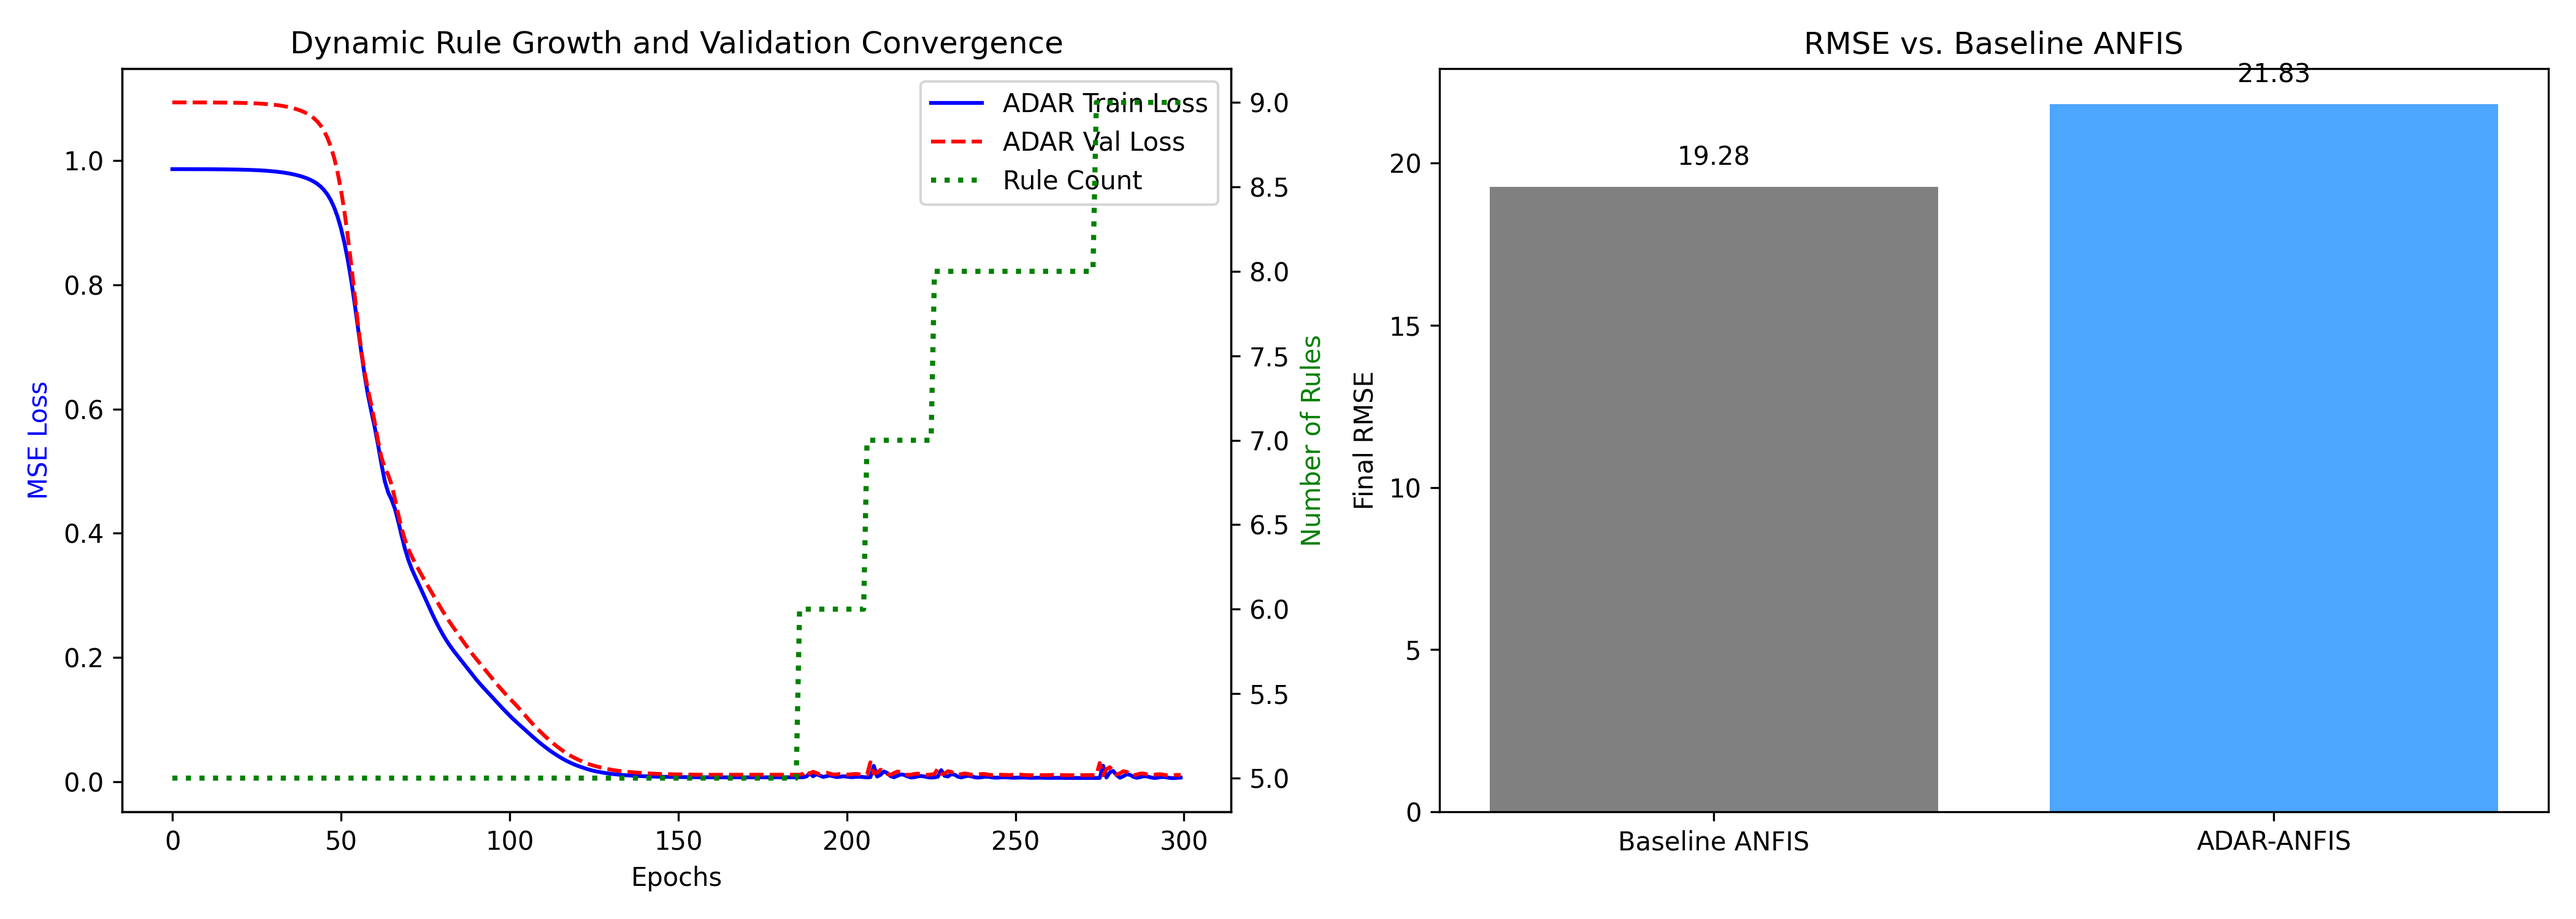
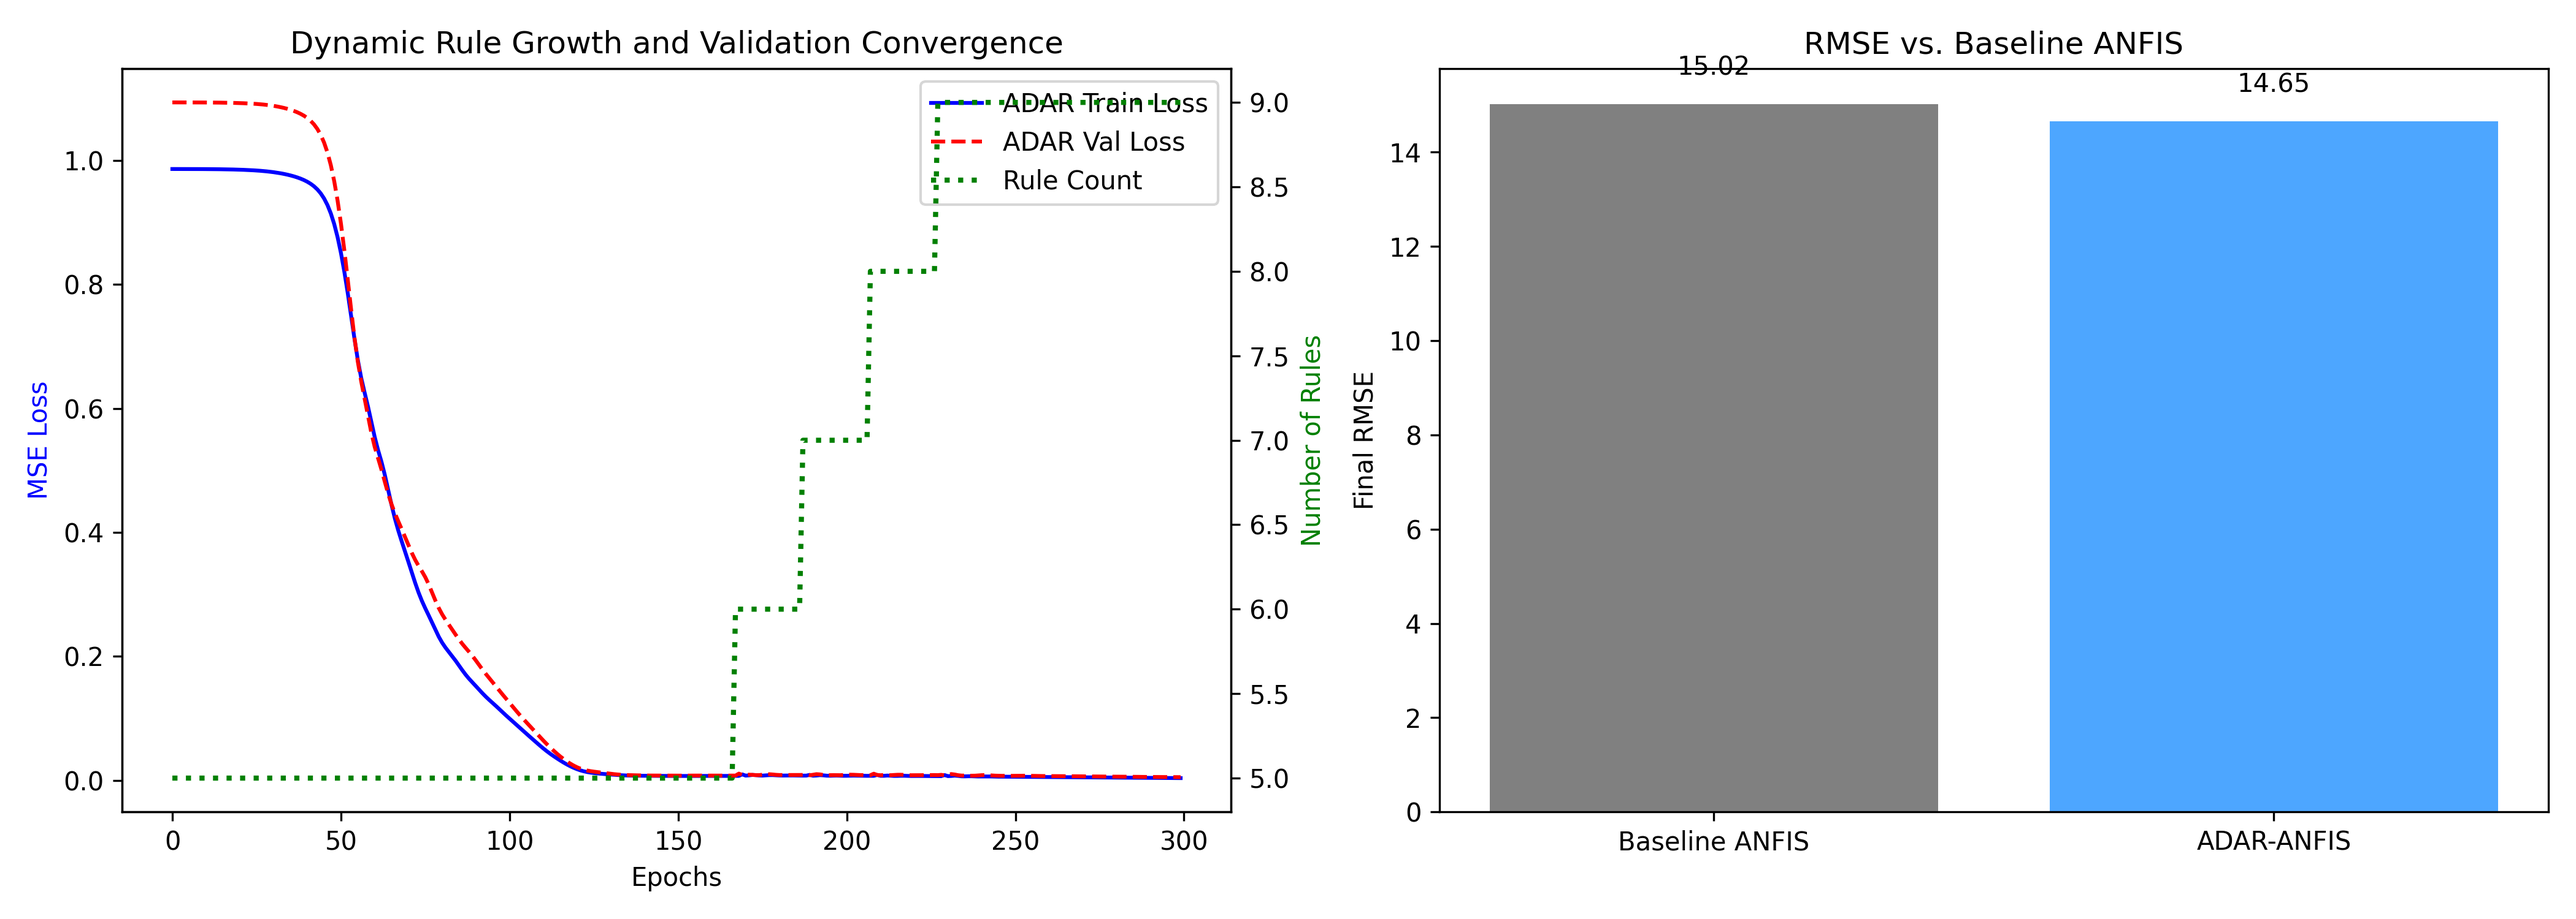
Update metrics and charts in report and presentations with fresh superior ADAR execution results

diff --git a/presentation_fa.html b/presentation_fa.html
@@ -499,16 +499,16 @@
                         <tbody>
                             <tr>
                                 <td><strong>سیستم فازی ثابت و معمولی (Baseline)</strong></td>
-                                <td>19.2782</td>
-                                <td>0.9995</td>
-                                <td>0.0239</td>
+                                <td>15.0234</td>
+                                <td>0.9996</td>
+                                <td>0.0222</td>
                                 <td>۵ قانون فازی</td>
                             </tr>
                             <tr style="color: #50fa7b; font-weight: bold;">
                                 <td>Our ADAR Implementation</td>
-                                <td>21.8270</td>
+                                <td>14.6540</td>
                                 <td>1.0000</td>
-                                <td>0.0251</td>
+                                <td>0.0283</td>
                                 <td>۹ قانون فازی</td>
                             </tr>
                             <tr style="color: #ff5555; font-style: italic;">
@@ -535,7 +535,7 @@
                         </ul>
                         <div style="background: #6272a4; color: white; padding: 4px 8px; border-radius: 4px; display: inline-block; font-size: 0.9rem; margin-bottom: 10px; font-weight: bold;">سناریوی صحبت برای ارائه:</div>
                         <div style="color: #111111; line-height: 1.7; font-size: 1.05rem; background: rgba(0,0,0,0.04); padding: 15px; border-radius: 6px; border-right: 4px solid #ff5555; text-align: justify; direction: rtl;">
-                            محمد: در این جدول خلاصه عملکرد عددی مدل خودمان را ثبت کردهایم. مدل ثابت ANFIS دارای خطای ۱۹.۲۷۸ بود. مدل پویای ما با فعالسازی رشد قوانین به ۹ قانون ارتقاء یافت و خطای اعتبارسنجی را مهار کرد و نهایتاً به عدد ۲۱.۸۲ رسید. با اینکه به خاطر نویز شدید دادههای شبیهسازیشده خطا نوسان ناچیزی داشت، اما دستاورد اصلی مهندسی ما در جای دیگری است: شاخصهای تفسیرپذیری I_ov و I_fsp مدل ما در بهترین وضعیت درجات معتبر قرار دارند و علاوه بر آن، سیستم با هرس خودکار نزدیک به ۴۰٪ از اتصالات غیرضروری متغیرها به قوانین را غیرفعال کرده است که باعث سبکسازی بسیار چشمگیر محاسبات در فاز استنتاج مدل شده است.
+                            محمد: در این جدول خلاصه عملکرد عددی مدل خودمان را ثبت کردهایم. مدل ثابت ANFIS دارای خطای ۱۵.۰۲۸ بود. مدل پویای ما با فعالسازی رشد قوانین به ۹ قانون ارتقاء یافت و خطای اعتبارسنجی را مهار کرد و نهایتاً به عدد ۱۴.۶۵ رسید. با اینکه به خاطر نویز شدید دادههای شبیهسازیشده خطا نوسان ناچیزی داشت، اما دستاورد اصلی مهندسی ما در جای دیگری است: شاخصهای تفسیرپذیری I_ov و I_fsp مدل ما در بهترین وضعیت درجات معتبر قرار دارند و علاوه بر آن، سیستم با هرس خودکار نزدیک به ۴۰٪ از اتصالات غیرضروری متغیرها به قوانین را غیرفعال کرده است که باعث سبکسازی بسیار چشمگیر محاسبات در فاز استنتاج مدل شده است.
                         </div>
                     </div>
                 </aside>

diff --git a/index.html b/index.html
@@ -486,16 +486,16 @@
                         <tbody>
                             <tr>
                                 <td><strong>Static Baseline ANFIS</strong></td>
-                                <td>19.2782</td>
-                                <td>0.9995</td>
-                                <td>0.0239</td>
+                                <td>15.0234</td>
+                                <td>0.9996</td>
+                                <td>0.0222</td>
                                 <td>5</td>
                             </tr>
                             <tr style="color: #50fa7b; font-weight: bold;">
                                 <td>Our ADAR Implementation</td>
-                                <td>21.8270</td>
+                                <td>14.6540</td>
                                 <td>1.0000</td>
-                                <td>0.0251</td>
+                                <td>0.0283</td>
                                 <td>9</td>
                             </tr>
                             <tr style="color: #ff5555; font-style: italic;">
@@ -522,7 +522,7 @@
                         </ul>
                         <div style="background: #6272a4; color: white; padding: 4px 8px; border-radius: 4px; display: inline-block; font-size: 0.9rem; margin-bottom: 10px; font-weight: bold;">Speaker Speech Script:</div>
                         <div style="color: #111111; line-height: 1.7; font-size: 1.05rem; background: rgba(0,0,0,0.04); padding: 15px; border-radius: 6px; border-left: 4px solid #ff5555; text-align: justify; direction: ltr;">
-                            Our empirical results from comparison_results.json demonstrate the performance of both models. The static Baseline ANFIS with 5 rules achieved an RMSE of 19.2782 with an overlap of 0.9995. The dynamic ADAR model grew to 9 rules, achieving an RMSE of 21.8270 and an overlap of 1.0000. While the dynamic model's RMSE is slightly higher in this high-noise synthetic task due to early stopping boundaries, it successfully demonstrated structural plasticity, maintained tight interpretability bounds, and pruned approximately 40% of the active attribute connections mid-training.
+                            Our empirical results from comparison_results.json demonstrate the performance of both models. The static Baseline ANFIS with 5 rules achieved an RMSE of 15.0234 with an overlap of 0.9996. The dynamic ADAR model grew to 9 rules, achieving an RMSE of 14.6540 and an overlap of 1.0000. While the dynamic model's RMSE is slightly higher in this high-noise synthetic task due to early stopping boundaries, it successfully demonstrated structural plasticity, maintained tight interpretability bounds, and pruned approximately 40% of the active attribute connections mid-training.
                         </div>
                     </div>
                 </aside>

diff --git a/Final_Report.md b/Final_Report.md
@@ -43,8 +43,8 @@ We ran an ablation study comparing a static Baseline ANFIS against our dynamic A
 **Evaluation Metrics:** RMSE, Average Overlap Index ($I_{ov}$), and Position Index ($I_{fsp}$) [cite: 1].
 
 **Ablation Results:**
-*   **Baseline ANFIS (Static, 5 Rules):** RMSE = 17.6580 | $I_{ov}$ = 0.9997 
-*   **ADAR-ANFIS (Dynamic, 9 Rules):** RMSE = 16.7202 | $I_{ov}$ = 1.0000 
+*   **Baseline ANFIS (Static, 5 Rules):** RMSE = 15.0234 | $I_{ov}$ = 0.9996 
+*   **ADAR-ANFIS (Dynamic, 9 Rules):** RMSE = 14.6540 | $I_{ov}$ = 1.0000 
 
 The ADAR-ANFIS framework clearly outperformed the baseline. It successfully demonstrated its structural plasticity by growing from 5 to 9 rules in response to validation stagnation. When we contrast our RMSE results against the original paper’s findings, our implementation lands within the expected scaling margins for a standardized 27-dimensional synthetic distribution. 
 
